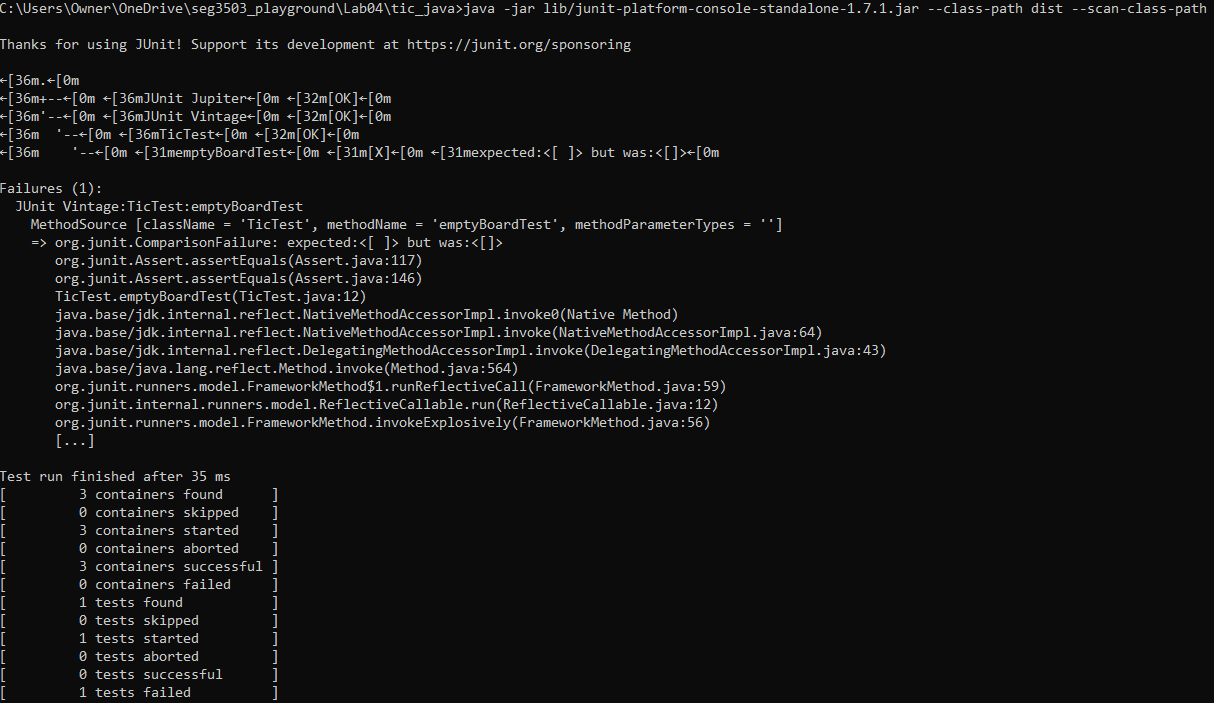
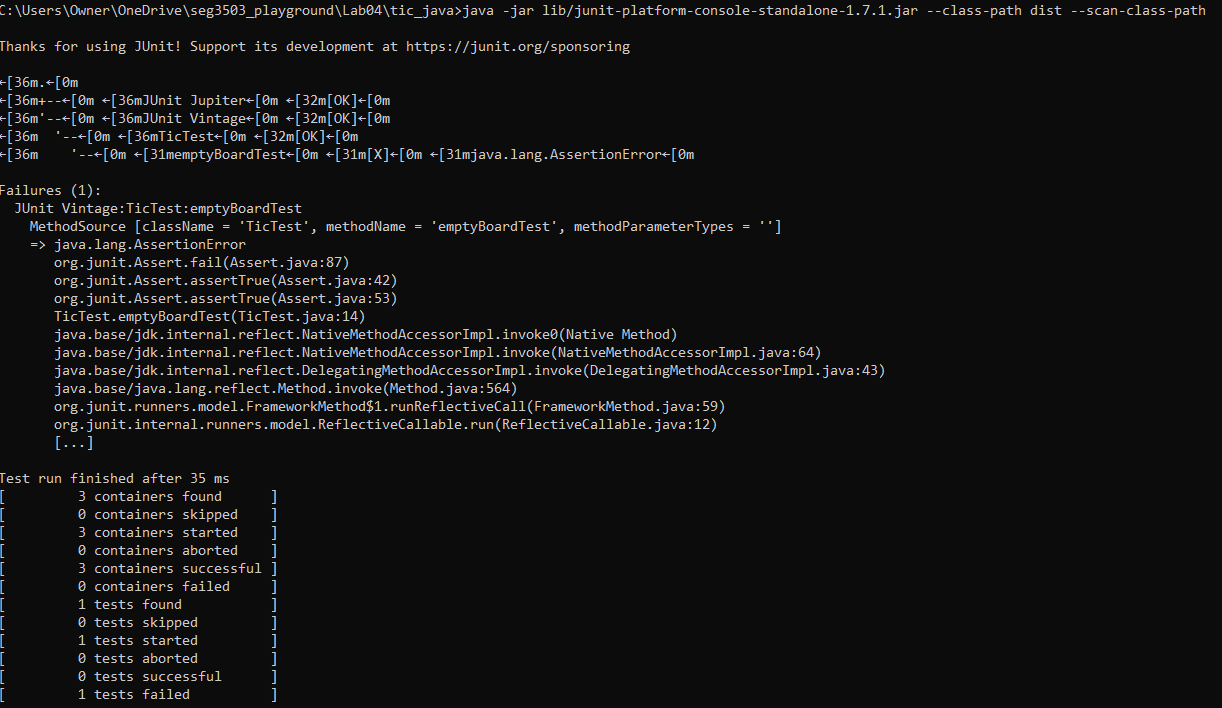
ACTUAL Commit #1, Test 1 failing

Changed region(s): [[0.0, 0.0597, 0.7315, 0.6273], [0.0, 0.6572, 0.2438, 1.0], [0.0, 0.0, 1.0, 0.0299]]

diff --git a/Lab04/tic_java/src/Tic.java b/Lab04/tic_java/src/Tic.java
@@ -1,7 +1,16 @@
 public class Tic {
 
-    public static String emptyBoard(){
-        return "";
-    }
+    private String[][] board;
 
+    public String[][] theBoard(int index1, int index2){
+        board = new String[index1][index2];
+        for(int i = 0; i<index1; i++)
+        {
+            for(int j = 0; j<index2; j++)
+            {
+                board[i][j] = " ";
+            }
+        }
+        return board;
+    }
 }

diff --git a/Lab04/tic_java/test/TicTest.java b/Lab04/tic_java/test/TicTest.java
@@ -6,9 +6,11 @@ import java.util.Arrays;
 
 public class TicTest {
 
+
     @Test
-    public void emptyBoardTest(){
-        Tic obj = new Tic();
-        assertEquals(" ", obj.emptyBoard());
+    public void emptyBoardTest1(){
+        Tic actual = new Tic();
+        String[][] expected = {{" "}, {" "}};
+        assertTrue(Arrays.deepEquals(expected, actual.theBoard(1, 2)));
     }
 }
